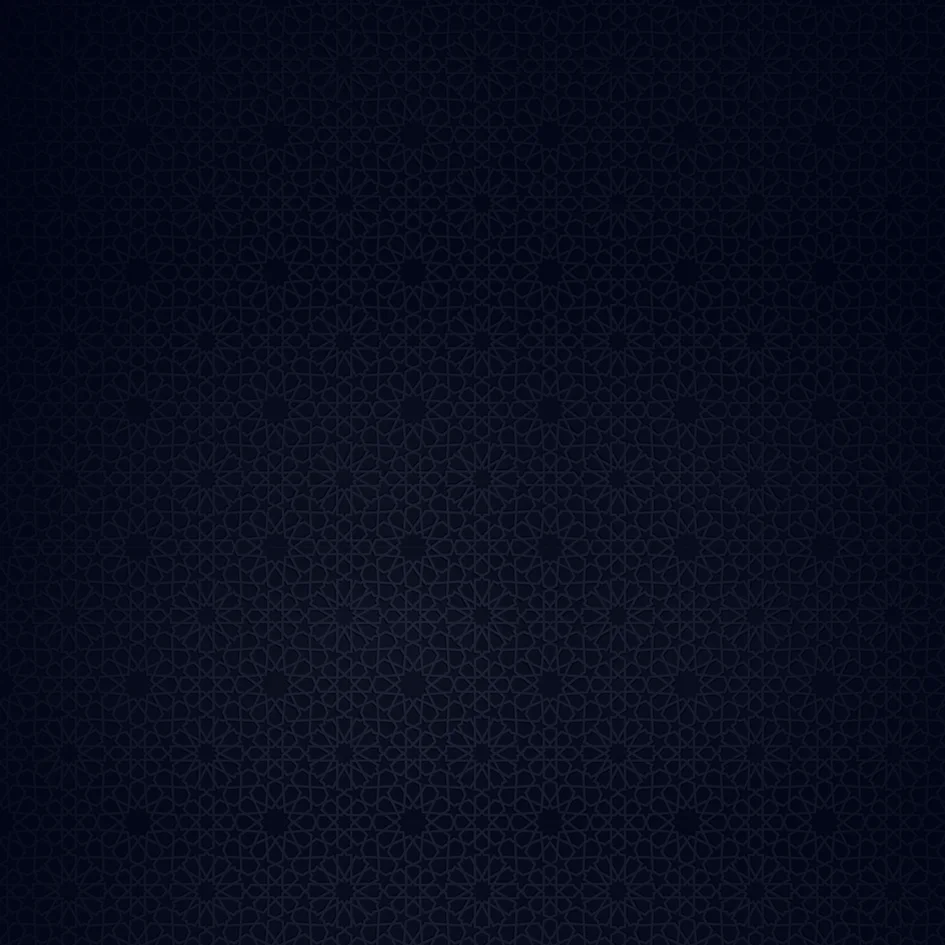
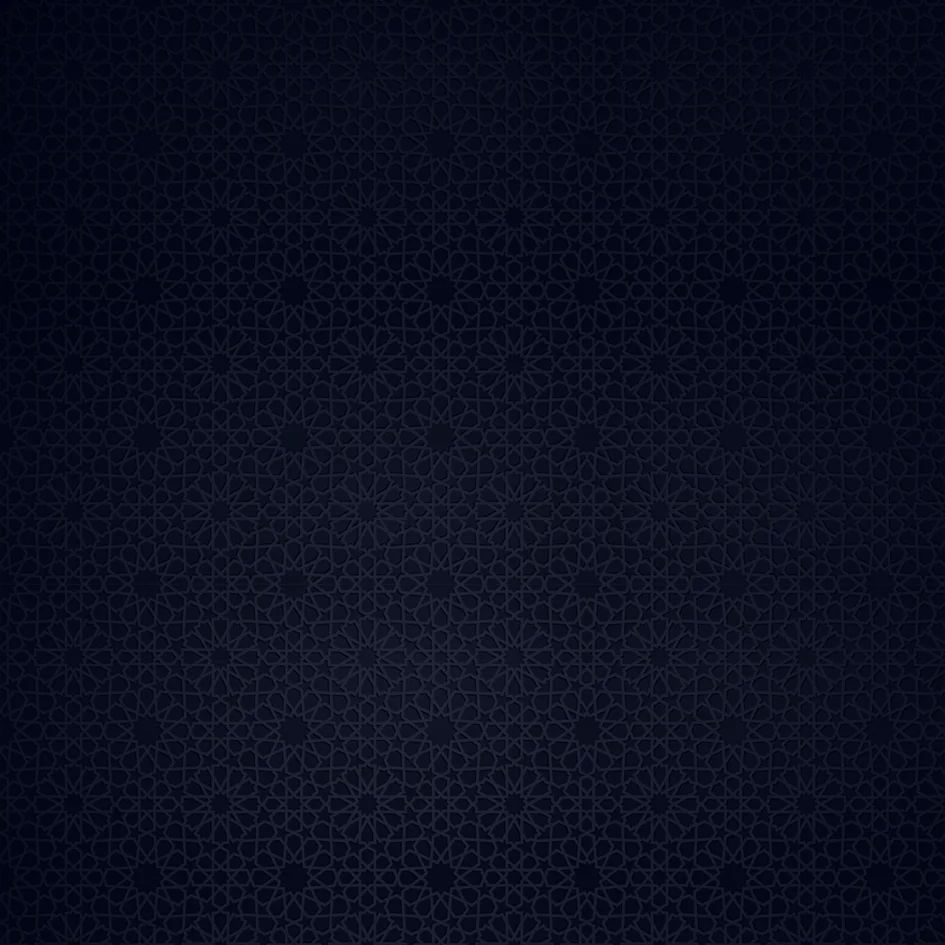
tilawah

diff --git a/assets/css/tilawah.css b/assets/css/tilawah.css
@@ -138,7 +138,9 @@
     transform-origin: center;
 }
 
-/* JUZ CARD BOX & BACKGROUND ALTERNATING */
+/* ==========================================
+   JUZ CARD BOX & BACKGROUND TUNGGAL
+========================================== */
 .juz-card-box {
     border: 1px solid rgba(255, 255, 255, 0.1);
     border-radius: 12px;
@@ -147,33 +149,32 @@
     display: flex;
     flex-direction: column;
     justify-content: space-between;
+    background-image: url('../images/lt-tilawah-dark.webp'); /* Gunakan satu file background utama */
     background-size: cover;
     background-position: center;
     background-repeat: no-repeat;
-    transition: transform 0.2s ease, border-color 0.2s ease, box-shadow 0.2s ease;
-}
-
-/* Juz Ganjil (1, 3, 5, dst) -> Dark */
-.juz-card-bg-dark {
-    background-image: url('../images/lt-tilawah-dark.webp');
     color: #ffffff;
 }
 
-/* Juz Genap (2, 4, 6, dst) -> Lite */
-.juz-card-bg-lite {
-    background-image: url('../images/lt-tilawah-lite.webp');
-    color: #ffffff;
+/* KARTU USER LAIN: DIAM SAAT MOUSE HOVER (TIDAK ADA PERUBAHAN & ANIMASI) */
+.juz-card-box:not(.user-assigned) {
+    transform: none !important;
+    border-color: rgba(255, 255, 255, 0.1) !important;
+    box-shadow: 0 10px 25px -5px rgba(0, 0, 0, 0.5) !important;
+    cursor: default;
 }
 
-.juz-card-box:hover {
-    transform: translateY(-2px);
-    border-color: #3b82f6;
-}
-
-/* HIGHLIGHT FRAME EMAS UNTUK USER AKTIF (DEDENIVANS) */
+/* HIGHLIGHT FRAME EMAS & TRANSISI KHUSUS UNTUK USER AKTIF (DEDENIVANS) */
 .juz-card-box.user-assigned {
     border: 2px solid #fbbf24 !important;
     box-shadow: 0 0 25px rgba(251, 191, 36, 0.4) !important;
+    transition: transform 0.2s ease, border-color 0.2s ease, box-shadow 0.2s ease;
+}
+
+.juz-card-box.user-assigned:hover {
+    transform: translateY(-2px);
+    border-color: #f59e0b !important;
+    box-shadow: 0 0 30px rgba(251, 191, 36, 0.6) !important;
 }
 
 /* BACKGROUND KARTU JUZ KHUSUS USER AKTIF (GOLD) */

diff --git a/tilawah.html b/tilawah.html
@@ -59,7 +59,14 @@
     <!-- ==========================================
          MAIN CONTENT - OWOJ TILAWAH DASHBOARD
     ========================================== -->
-    <main class="flex-grow pt-20 pb-16 w-full">
+    <main class="flex-grow pt-2 pb-16 w-full">
+
+        <!-- HEADER BANNER TILAWAH (GAP ATAS & BAWAH DISESUAIKAN) -->
+        <div class="max-w-[1920px] mx-auto px-4 mb-4 mt-2">
+            <div class="w-full overflow-hidden rounded-2xl shadow-xl border border-slate-800">
+                <img src="assets/images/header tilawah.webp" alt="Header Tilawah IKA 11.98" class="w-full h-auto object-cover max-h-[300px]">
+            </div>
+        </div>
 
         <!-- TAB NAVIGATION BAR (GREY METALLIC STYLE LIKE DESIGN) -->
         <div class="bg-slate-900 border-b border-slate-800 sticky top-16 z-40 shadow-md">
@@ -406,9 +413,9 @@
     </script>
 
     <!-- JS ASSETS -->
-    <script src="assets/js/navbar.js?v=2.0"></script>
-    <script type="module" src="assets/js/counter.js"></script>
-    <script src="assets/js/tilawah.js"></script>
+<script src="assets/js/navbar.js?v=2.0"></script>
+<script type="module" src="assets/js/counter.js"></script> <!-- Perhatikan baris ini -->
+<script src="assets/js/tilawah.js"></script>
 
 </body>
 </html>

diff --git a/assets/js/tilawah.js b/assets/js/tilawah.js
@@ -293,8 +293,8 @@ function renderActiveJuzCards(currentUser) {
         card.className = `juz-card-box ${bgClass} ${isUserAssigned ? 'user-assigned' : ''}`;
         card.id = `juz-btn-${assignedJuz}`;
 
-        // Nama Panggilan: Kotak Gold -> #3b3e3f (abu-abu), Kotak Gelap -> #fbbf24 (gold)
-        const nameColorClass = isUserAssigned ? 'text-[#3b3e3f]' : 'text-[#fbbf24]';
+        // Nama Panggilan: Kotak Gold -> #3b3e3f (abu-abu), Kotak Gelap -> #8698b5
+        const nameColorClass = isUserAssigned ? 'text-[#3b3e3f]' : 'text-[#ffffff]';
 
         // 2. Nomor Urut / Pekan: Kotak Gold -> #ffffff (putih), Kotak Gelap -> #8698b5
         const metaColorClass = isUserAssigned ? 'text-[#ffffff]' : 'text-[#8698b5]';
